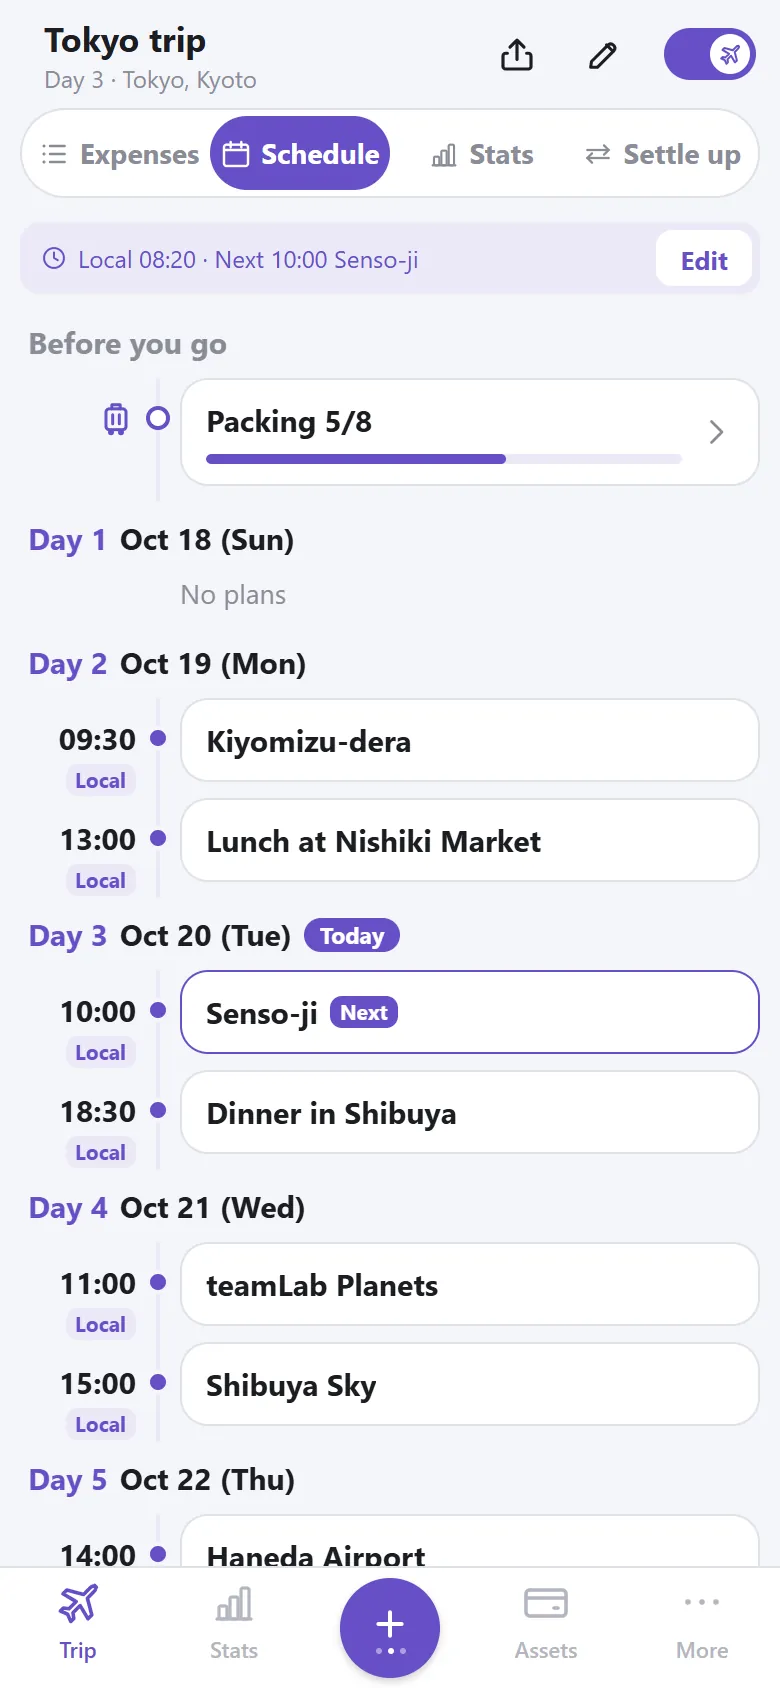
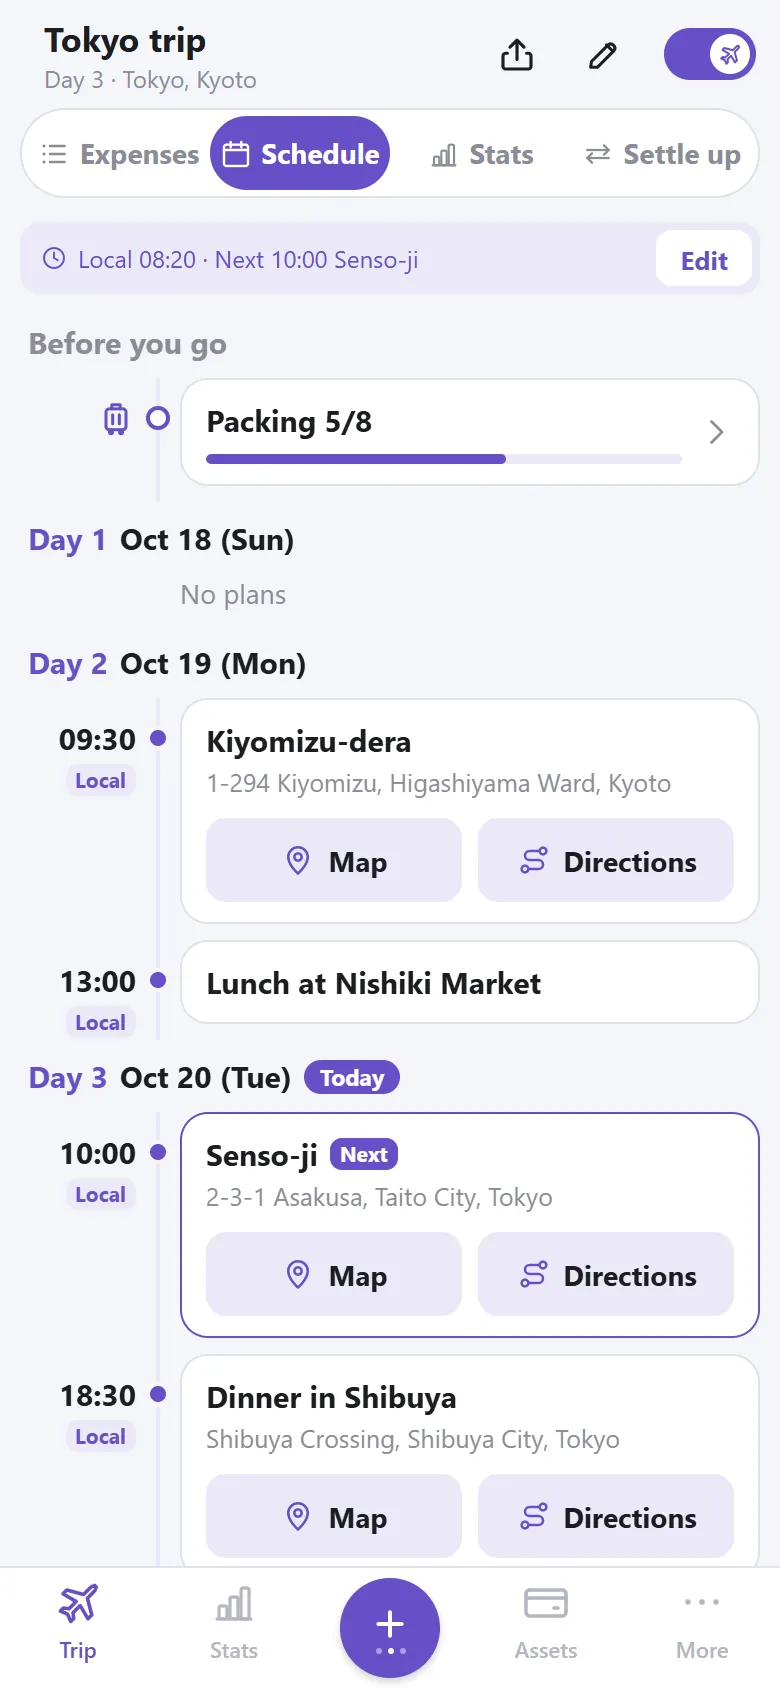
Show map and directions in the trip schedule screens
- Re-captured the schedule screen (KO/JA/EN) with plans that carry a map
  link, so each place shows its address with Map and Directions buttons
- Plans & packing card copy now says a map link opens the map or
  directions in one tap

diff --git a/cashtory/ja/index.html b/cashtory/ja/index.html
@@ -258,7 +258,7 @@ footer{padding:32px 0 42px;border-top:1px solid var(--line);color:#777A85;font-s
           <p class="sectionLead">旅行ごとに別々に記録し、必要な支出だけを選んで家計簿に移せます。現地のお金のまま入力すれば為替レートで換算して合計を表示し、同行者と使ったお金は誰が誰にいくら送ればよいかまで教えてくれます。</p>
         </div>
         <div class="inputMedia four"><figure><div class="phone"><img src="/cashtory/assets/screens/ja/trip.webp" alt="旅行の支出画面" width="780" height="1688" loading="lazy" decoding="async"></div><figcaption>支出</figcaption></figure><figure><div class="phone"><img src="/cashtory/assets/screens/ja/trip-plans.webp" alt="旅行の日程画面" width="780" height="1688" loading="lazy" decoding="async"></div><figcaption>日程</figcaption></figure><figure><div class="phone"><img src="/cashtory/assets/screens/ja/trip-stats.webp" alt="旅行の統計画面" width="780" height="1688" loading="lazy" decoding="async"></div><figcaption>統計</figcaption></figure><figure><div class="phone"><img src="/cashtory/assets/screens/ja/trip2.webp" alt="旅行の精算画面" width="780" height="1688" loading="lazy" decoding="async"></div><figcaption>精算</figcaption></figure></div>
-        <div class="features"><article class="feature"><div class="featureIcon" aria-hidden="true">$</div><h3>現地のお金のまま</h3><p>ドル・ウォンのまま入力すると、決めたレートで換算して合計・1人あたり・1日平均を表示します。</p></article><article class="feature"><div class="featureIcon" aria-hidden="true">⇄</div><h3>自動で精算</h3><p>払った人と割る人を選ぶだけ。精算表は画像で共有でき、旅行ファイルをやり取りして同行者と合算できます。</p></article><article class="feature"><div class="featureIcon" aria-hidden="true">☑</div><h3>日程 · 持ち物</h3><p>日ごとの予定と地図リンクを記録し、海外・国内の基本リストで持ち物をチェック。</p></article><article class="feature"><div class="featureIcon" aria-hidden="true">✈</div><h3>旅行モード</h3><p>出発前日から家計簿上のスイッチひとつで旅行画面が先に。行った国は世界地図に塗られます。</p></article></div>
+        <div class="features"><article class="feature"><div class="featureIcon" aria-hidden="true">$</div><h3>現地のお金のまま</h3><p>ドル・ウォンのまま入力すると、決めたレートで換算して合計・1人あたり・1日平均を表示します。</p></article><article class="feature"><div class="featureIcon" aria-hidden="true">⇄</div><h3>自動で精算</h3><p>払った人と割る人を選ぶだけ。精算表は画像で共有でき、旅行ファイルをやり取りして同行者と合算できます。</p></article><article class="feature"><div class="featureIcon" aria-hidden="true">☑</div><h3>日程 · 持ち物</h3><p>予定に地図リンクを付ければ、地図と経路をすぐに開けます。持ち物は海外・国内の基本リストでチェック。</p></article><article class="feature"><div class="featureIcon" aria-hidden="true">✈</div><h3>旅行モード</h3><p>出発前日から家計簿上のスイッチひとつで旅行画面が先に。行った国は世界地図に塗られます。</p></article></div>
       </div>
     </section>
 

diff --git a/cashtory/index.html b/cashtory/index.html
@@ -267,7 +267,7 @@ footer{padding:32px 0 42px;border-top:1px solid var(--line);color:#777A85;font-s
           <p class="sectionLead">여행마다 따로 적고, 필요한 지출만 골라 내 가계부로 옮기세요. 현지 돈 그대로 적으면 환율로 바꿔 합계를 보여 주고, 일행과 쓴 돈은 누가 누구에게 얼마 보내면 되는지까지 알려줘요.</p>
         </div>
         <div class="inputMedia four"><figure><div class="phone"><img src="/cashtory/assets/screens/ko/trip.webp" alt="여행 지출 내역 화면" width="780" height="1688" loading="lazy" decoding="async"></div><figcaption>내역</figcaption></figure><figure><div class="phone"><img src="/cashtory/assets/screens/ko/trip-plans.webp" alt="여행 일정 화면" width="780" height="1688" loading="lazy" decoding="async"></div><figcaption>일정</figcaption></figure><figure><div class="phone"><img src="/cashtory/assets/screens/ko/trip-stats.webp" alt="여행 통계 화면" width="780" height="1688" loading="lazy" decoding="async"></div><figcaption>통계</figcaption></figure><figure><div class="phone"><img src="/cashtory/assets/screens/ko/trip2.webp" alt="여행 정산 화면" width="780" height="1688" loading="lazy" decoding="async"></div><figcaption>정산</figcaption></figure></div>
-        <div class="features"><article class="feature"><div class="featureIcon" aria-hidden="true">¥</div><h3>현지 돈 그대로</h3><p>엔·달러 그대로 적으면 정한 환율로 바꿔 총 지출·1인당·하루 평균을 보여줘요.</p></article><article class="feature"><div class="featureIcon" aria-hidden="true">⇄</div><h3>자동 정산</h3><p>낸 사람과 나눌 사람만 고르면 끝. 정산표는 이미지로 공유하고, 여행 파일을 주고받아 일행과 합칠 수 있어요.</p></article><article class="feature"><div class="featureIcon" aria-hidden="true">☑</div><h3>일정 · 준비물</h3><p>날마다 일정과 지도 링크를 적고, 해외·국내 기본 목록으로 준비물을 챙겨요.</p></article><article class="feature"><div class="featureIcon" aria-hidden="true">✈</div><h3>여행 모드</h3><p>출발 전날부터 가계부 위 스위치 하나로 여행 화면이 먼저. 다녀온 나라는 세계지도에 칠해져요.</p></article></div>
+        <div class="features"><article class="feature"><div class="featureIcon" aria-hidden="true">¥</div><h3>현지 돈 그대로</h3><p>엔·달러 그대로 적으면 정한 환율로 바꿔 총 지출·1인당·하루 평균을 보여줘요.</p></article><article class="feature"><div class="featureIcon" aria-hidden="true">⇄</div><h3>자동 정산</h3><p>낸 사람과 나눌 사람만 고르면 끝. 정산표는 이미지로 공유하고, 여행 파일을 주고받아 일행과 합칠 수 있어요.</p></article><article class="feature"><div class="featureIcon" aria-hidden="true">☑</div><h3>일정 · 준비물</h3><p>일정에 지도 링크를 붙이면 지도와 길찾기를 바로 열어요. 준비물은 해외·국내 기본 목록으로 챙겨요.</p></article><article class="feature"><div class="featureIcon" aria-hidden="true">✈</div><h3>여행 모드</h3><p>출발 전날부터 가계부 위 스위치 하나로 여행 화면이 먼저. 다녀온 나라는 세계지도에 칠해져요.</p></article></div>
       </div>
     </section>
 

diff --git a/cashtory/en/index.html b/cashtory/en/index.html
@@ -258,7 +258,7 @@ footer{padding:32px 0 42px;border-top:1px solid var(--line);color:#777A85;font-s
           <p class="sectionLead">Keep each trip separate and move only the expenses you choose into your ledger. Enter amounts in the local currency and see totals at your exchange rate; for group trips, it tells you who should pay whom, and how much.</p>
         </div>
         <div class="inputMedia four"><figure><div class="phone"><img src="/cashtory/assets/screens/en/trip.webp" alt="Trip expenses screen" width="780" height="1688" loading="lazy" decoding="async"></div><figcaption>Expenses</figcaption></figure><figure><div class="phone"><img src="/cashtory/assets/screens/en/trip-plans.webp" alt="Trip schedule screen" width="780" height="1688" loading="lazy" decoding="async"></div><figcaption>Schedule</figcaption></figure><figure><div class="phone"><img src="/cashtory/assets/screens/en/trip-stats.webp" alt="Trip stats screen" width="780" height="1688" loading="lazy" decoding="async"></div><figcaption>Stats</figcaption></figure><figure><div class="phone"><img src="/cashtory/assets/screens/en/trip2.webp" alt="Trip settle-up screen" width="780" height="1688" loading="lazy" decoding="async"></div><figcaption>Settle up</figcaption></figure></div>
-        <div class="features"><article class="feature"><div class="featureIcon" aria-hidden="true">€</div><h3>Local currency as is</h3><p>Enter euros or yen as they are; totals, per person and per day are converted at your rate.</p></article><article class="feature"><div class="featureIcon" aria-hidden="true">⇄</div><h3>Settle up automatically</h3><p>Pick who paid and who&#x27;s splitting. Share the settlement as an image, and swap trip files to combine everyone&#x27;s entries.</p></article><article class="feature"><div class="featureIcon" aria-hidden="true">☑</div><h3>Plans &amp; packing list</h3><p>Add each day&#x27;s plans with map links, and pack with the built-in abroad or domestic lists.</p></article><article class="feature"><div class="featureIcon" aria-hidden="true">✈</div><h3>Trip mode</h3><p>From the day before you leave, one switch above your ledger opens the trip first. Countries you&#x27;ve visited fill in on a world map.</p></article></div>
+        <div class="features"><article class="feature"><div class="featureIcon" aria-hidden="true">€</div><h3>Local currency as is</h3><p>Enter euros or yen as they are; totals, per person and per day are converted at your rate.</p></article><article class="feature"><div class="featureIcon" aria-hidden="true">⇄</div><h3>Settle up automatically</h3><p>Pick who paid and who&#x27;s splitting. Share the settlement as an image, and swap trip files to combine everyone&#x27;s entries.</p></article><article class="feature"><div class="featureIcon" aria-hidden="true">☑</div><h3>Plans &amp; packing list</h3><p>Add a map link to a plan to open the map or directions in one tap, and pack with the built-in abroad or domestic lists.</p></article><article class="feature"><div class="featureIcon" aria-hidden="true">✈</div><h3>Trip mode</h3><p>From the day before you leave, one switch above your ledger opens the trip first. Countries you&#x27;ve visited fill in on a world map.</p></article></div>
       </div>
     </section>
 

diff --git a/tools/build_cashtory_pages.py b/tools/build_cashtory_pages.py
@@ -81,7 +81,7 @@ COPY = {
         "trip_lead": "여행마다 따로 적고, 필요한 지출만 골라 내 가계부로 옮기세요. 현지 돈 그대로 적으면 환율로 바꿔 합계를 보여 주고, 일행과 쓴 돈은 누가 누구에게 얼마 보내면 되는지까지 알려줘요.",
         "trip": [("¥", "현지 돈 그대로", "엔·달러 그대로 적으면 정한 환율로 바꿔 총 지출·1인당·하루 평균을 보여줘요."),
                  ("⇄", "자동 정산", "낸 사람과 나눌 사람만 고르면 끝. 정산표는 이미지로 공유하고, 여행 파일을 주고받아 일행과 합칠 수 있어요."),
-                 ("☑", "일정 · 준비물", "날마다 일정과 지도 링크를 적고, 해외·국내 기본 목록으로 준비물을 챙겨요."),
+                 ("☑", "일정 · 준비물", "일정에 지도 링크를 붙이면 지도와 길찾기를 바로 열어요. 준비물은 해외·국내 기본 목록으로 챙겨요."),
                  ("✈", "여행 모드", "출발 전날부터 가계부 위 스위치 하나로 여행 화면이 먼저. 다녀온 나라는 세계지도에 칠해져요.")],
         "trip_shots": [("trip", "내역", "여행 지출 내역 화면"), ("trip-plans", "일정", "여행 일정 화면"),
                        ("trip-stats", "통계", "여행 통계 화면"), ("trip2", "정산", "여행 정산 화면")],
@@ -186,7 +186,7 @@ COPY = {
         "trip_lead": "旅行ごとに別々に記録し、必要な支出だけを選んで家計簿に移せます。現地のお金のまま入力すれば為替レートで換算して合計を表示し、同行者と使ったお金は誰が誰にいくら送ればよいかまで教えてくれます。",
         "trip": [("$", "現地のお金のまま", "ドル・ウォンのまま入力すると、決めたレートで換算して合計・1人あたり・1日平均を表示します。"),
                  ("⇄", "自動で精算", "払った人と割る人を選ぶだけ。精算表は画像で共有でき、旅行ファイルをやり取りして同行者と合算できます。"),
-                 ("☑", "日程 · 持ち物", "日ごとの予定と地図リンクを記録し、海外・国内の基本リストで持ち物をチェック。"),
+                 ("☑", "日程 · 持ち物", "予定に地図リンクを付ければ、地図と経路をすぐに開けます。持ち物は海外・国内の基本リストでチェック。"),
                  ("✈", "旅行モード", "出発前日から家計簿上のスイッチひとつで旅行画面が先に。行った国は世界地図に塗られます。")],
         "trip_shots": [("trip", "支出", "旅行の支出画面"), ("trip-plans", "日程", "旅行の日程画面"),
                        ("trip-stats", "統計", "旅行の統計画面"), ("trip2", "精算", "旅行の精算画面")],
@@ -292,7 +292,7 @@ COPY = {
         "trip_lead": "Keep each trip separate and move only the expenses you choose into your ledger. Enter amounts in the local currency and see totals at your exchange rate; for group trips, it tells you who should pay whom, and how much.",
         "trip": [("€", "Local currency as is", "Enter euros or yen as they are; totals, per person and per day are converted at your rate."),
                  ("⇄", "Settle up automatically", "Pick who paid and who's splitting. Share the settlement as an image, and swap trip files to combine everyone's entries."),
-                 ("☑", "Plans & packing list", "Add each day's plans with map links, and pack with the built-in abroad or domestic lists."),
+                 ("☑", "Plans & packing list", "Add a map link to a plan to open the map or directions in one tap, and pack with the built-in abroad or domestic lists."),
                  ("✈", "Trip mode", "From the day before you leave, one switch above your ledger opens the trip first. Countries you've visited fill in on a world map.")],
         "trip_shots": [("trip", "Expenses", "Trip expenses screen"), ("trip-plans", "Schedule", "Trip schedule screen"),
                        ("trip-stats", "Stats", "Trip stats screen"), ("trip2", "Settle up", "Trip settle-up screen")],
